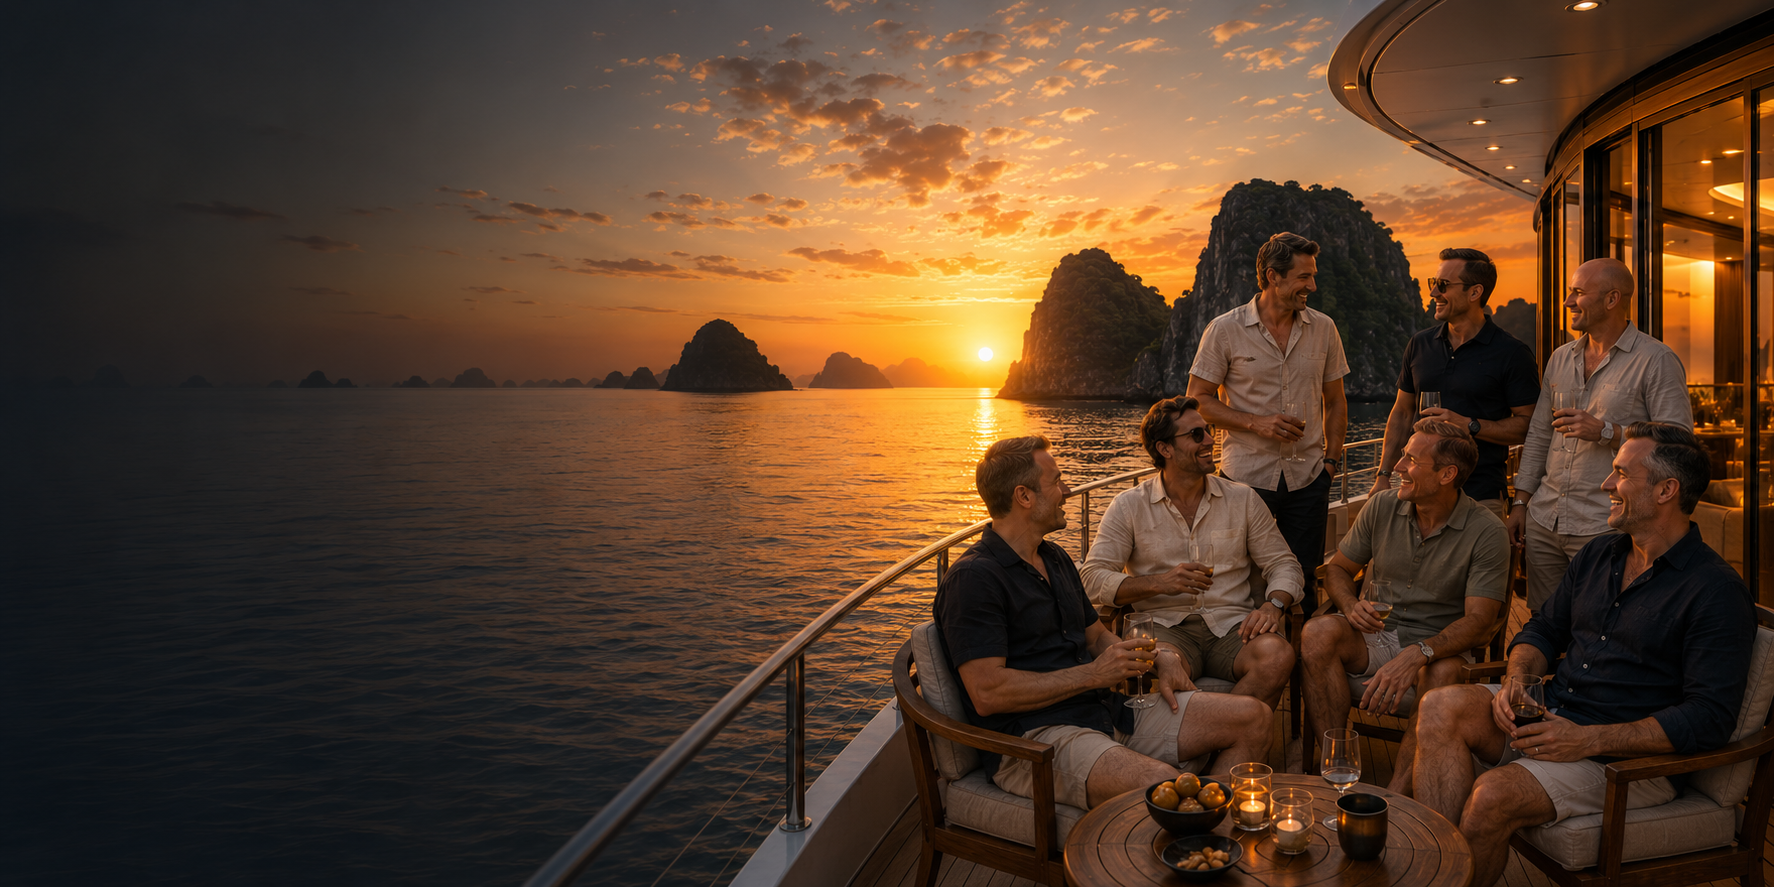
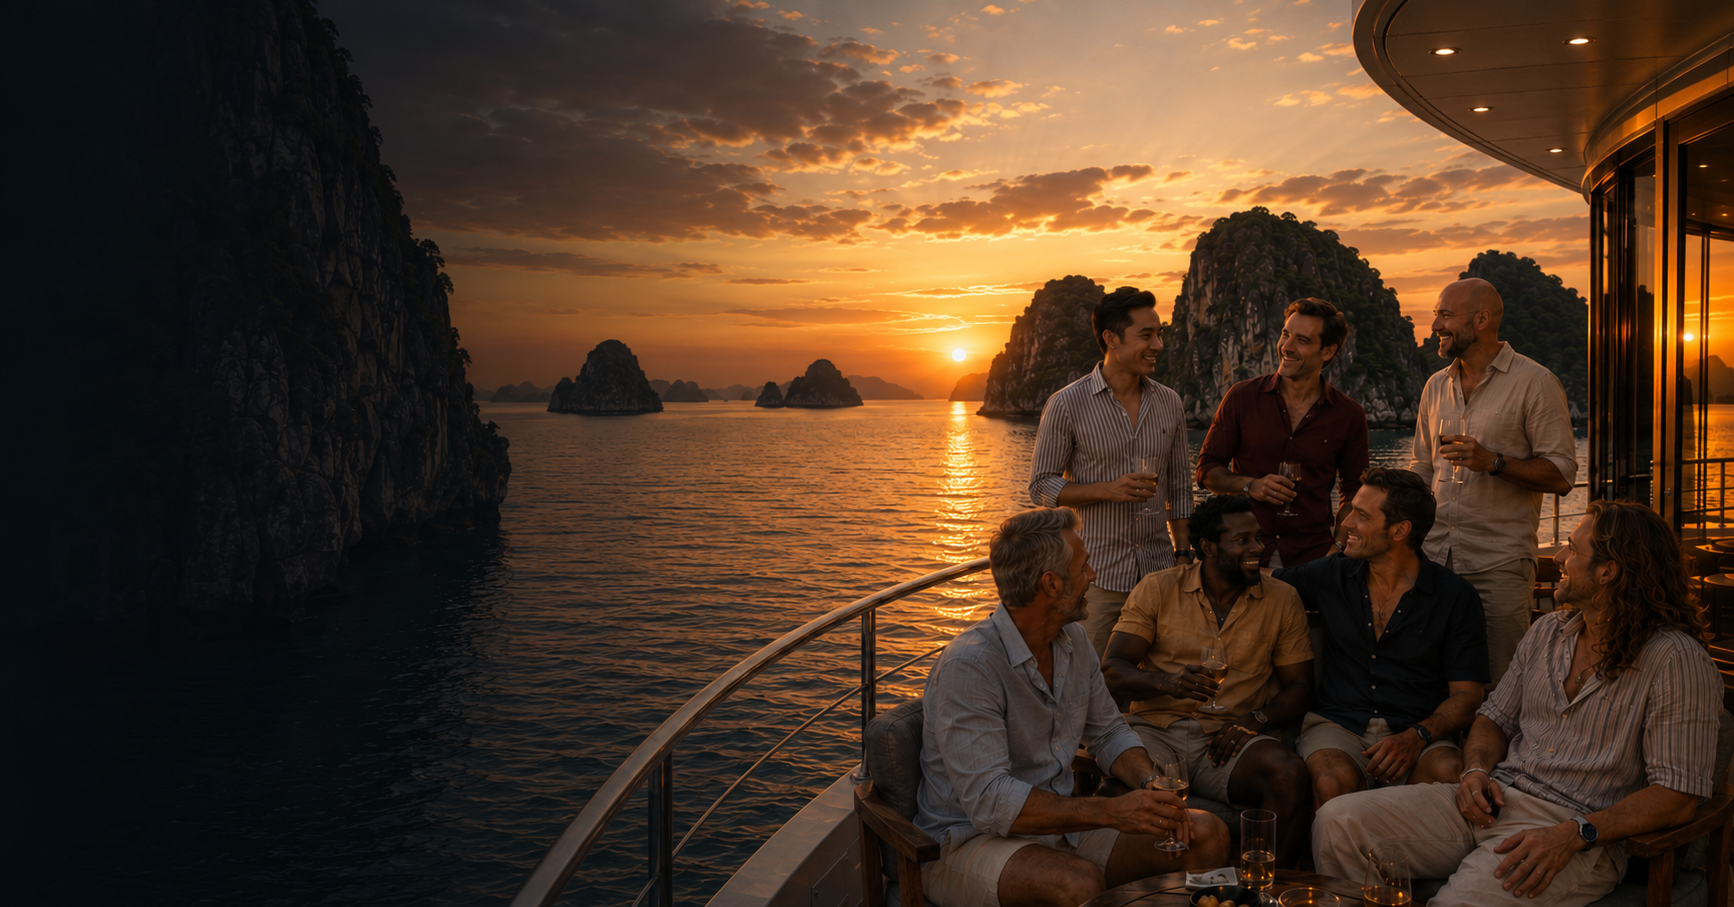
Batch of 8 revisions: homepage, trip pages, pricing inclusions
- Hero: replace web image, subtitle luxury→premium, mobile line break
- Meet Your Guides (web): widen text column (50/44%), CTA section taller (py-24/28)
- Meet Us page: mobile line break before 'experience' in subtitle
- Private Trips: prefill contact form with trip=private-trips
- Pricing: move 'All included activities' to 3rd position in all 4 trips

diff --git a/app/page.tsx b/app/page.tsx
@@ -161,7 +161,9 @@ function HeroSection() {
             className="mt-3 md:mt-8 flex flex-col gap-4 items-start"
           >
             <p className="font-sans text-[11.5px] sm:text-sm text-white/50 leading-relaxed lg:whitespace-nowrap">
-              Curated luxury journeys exclusively for the LGBTQ+ community.
+              Curated premium journeys exclusively{" "}
+              <span className="md:hidden"><br /></span>
+              for the LGBTQ+ community.
             </p>
             <div className="hidden md:flex flex-row gap-3">
               <Link
@@ -448,7 +450,7 @@ function FoundersSection() {
 
       {/* ── DESKTOP: image right, text left ── */}
       <div className="hidden md:flex relative overflow-hidden items-center" style={{ minHeight: "540px" }}>
-        <div className="absolute top-0 right-0 bottom-0 w-[55%]" style={{ overflow: "hidden" }}>
+        <div className="absolute top-0 right-0 bottom-0 w-[50%]" style={{ overflow: "hidden" }}>
           <Image
             src="/guides/founders-home.png"
             alt="Filippo and Szilard"
@@ -459,7 +461,7 @@ function FoundersSection() {
         </div>
         <div className="relative z-10 w-full">
           <div className="max-w-7xl mx-auto px-6 lg:px-8">
-            <div className="pt-8 lg:pt-10 pb-12 lg:pb-14 max-w-[300px] lg:max-w-[36%]">
+            <div className="pt-8 lg:pt-10 pb-12 lg:pb-14 max-w-[300px] lg:max-w-[44%]">
               <FoundersText />
             </div>
           </div>
@@ -581,7 +583,7 @@ function TestimonialsSection() {
 
 function CTASection() {
   return (
-    <section className="relative pt-20 pb-16 md:py-16 lg:py-20 overflow-hidden min-h-[500px] md:min-h-0">
+    <section className="relative pt-20 pb-16 md:py-24 lg:py-28 overflow-hidden min-h-[500px] md:min-h-0">
       {/* Desktop image */}
       <div className="absolute inset-0 hidden md:block">
         <Image src="/ready-to-explore/explore-web.png" alt="" fill className="object-cover object-[center_80%]" />

diff --git a/app/about/page.tsx b/app/about/page.tsx
@@ -26,7 +26,7 @@ export default function AboutPage() {
             title="Two Guides"
             titleLine2="One"
             titleLine2Accent="Passion"
-            subtitle="Guiding you through Asia with experience, care and passion"
+            subtitle={<>Guiding you through Asia with<span className="md:hidden"><br /></span>{" "}experience, care and passion</>}
           />
 
           {/* Our Mission */}

diff --git a/app/private-trips/page.tsx b/app/private-trips/page.tsx
@@ -135,7 +135,7 @@ export default function PrivateTripsPage() {
                   </p>
                   <div className="flex justify-center lg:justify-start">
                     <Link
-                      href="/contact#reach-out"
+                      href="/contact?trip=private-trips#reach-out"
                       className="inline-flex items-center gap-2 font-sans font-semibold tracking-wide px-8 py-4 rounded-full bg-sunset-orange text-white hover:bg-ember transition-colors duration-300"
                     >
                       Book a Consultation

diff --git a/lib/trips/bali.ts b/lib/trips/bali.ts
@@ -124,8 +124,8 @@ export const bali: TripContent = {
   included: [
     "Group guidance and assistance during the stay",
     "12 nights with breakfast in exclusive 5-star hotels",
-    "5 selected additional meals",
     "All included activities listed in the itinerary",
+    "5 selected additional meals",
     "Premium air-conditioned minivans throughout the trip",
     "Private airport transfer on arrival and departure",
     "Organisation fees, taxes and local charges",

diff --git a/lib/trips/north-vietnam.ts b/lib/trips/north-vietnam.ts
@@ -159,8 +159,8 @@ export const northVietnam: TripContent = {
     "Group guidance and assistance during the stay",
     "9 nights with breakfast in premium 4 and 5-star hotels",
     "2 nights on a 5-star exclusive yacht with full board",
-    "6 selected additional meals",
     "All included activities listed in the itinerary",
+    "6 selected additional meals",
     "Premium air-conditioned minivans throughout the trip",
     "Private airport transfer on arrival and departure",
     "Organisation fees, taxes and local charges",

diff --git a/lib/trips/south-vietnam.ts b/lib/trips/south-vietnam.ts
@@ -111,8 +111,8 @@ export const southVietnam: TripContent = {
     "Group guidance and assistance during the stay",
     "9 nights with breakfast in exclusive 5-star hotels",
     "2 nights with breakfast in 4-star hotels in Mekong Delta",
-    "6 selected additional meals",
     "All included activities listed in the itinerary",
+    "6 selected additional meals",
     "Premium air-conditioned minivans throughout the trip",
     "Private airport transfer on arrival and departure",
     "Organisation fees, taxes and local charges",

diff --git a/lib/trips/thailand.ts b/lib/trips/thailand.ts
@@ -104,9 +104,9 @@ export const thailand: TripContent = {
     "Group guidance and assistance during the stay",
     "9 nights with breakfast in premium 4 and 5-star hotels",
     "2 nights on an exclusive floating bungalow in Khao Sok",
+    "All included activities listed in the itinerary",
     "2 domestic flights",
     "5 selected additional meals",
-    "All included activities listed in the itinerary",
     "Premium air-conditioned minivans throughout the trip",
     "Private airport transfer on arrival and departure",
     "Organisation fees, taxes and local charges",